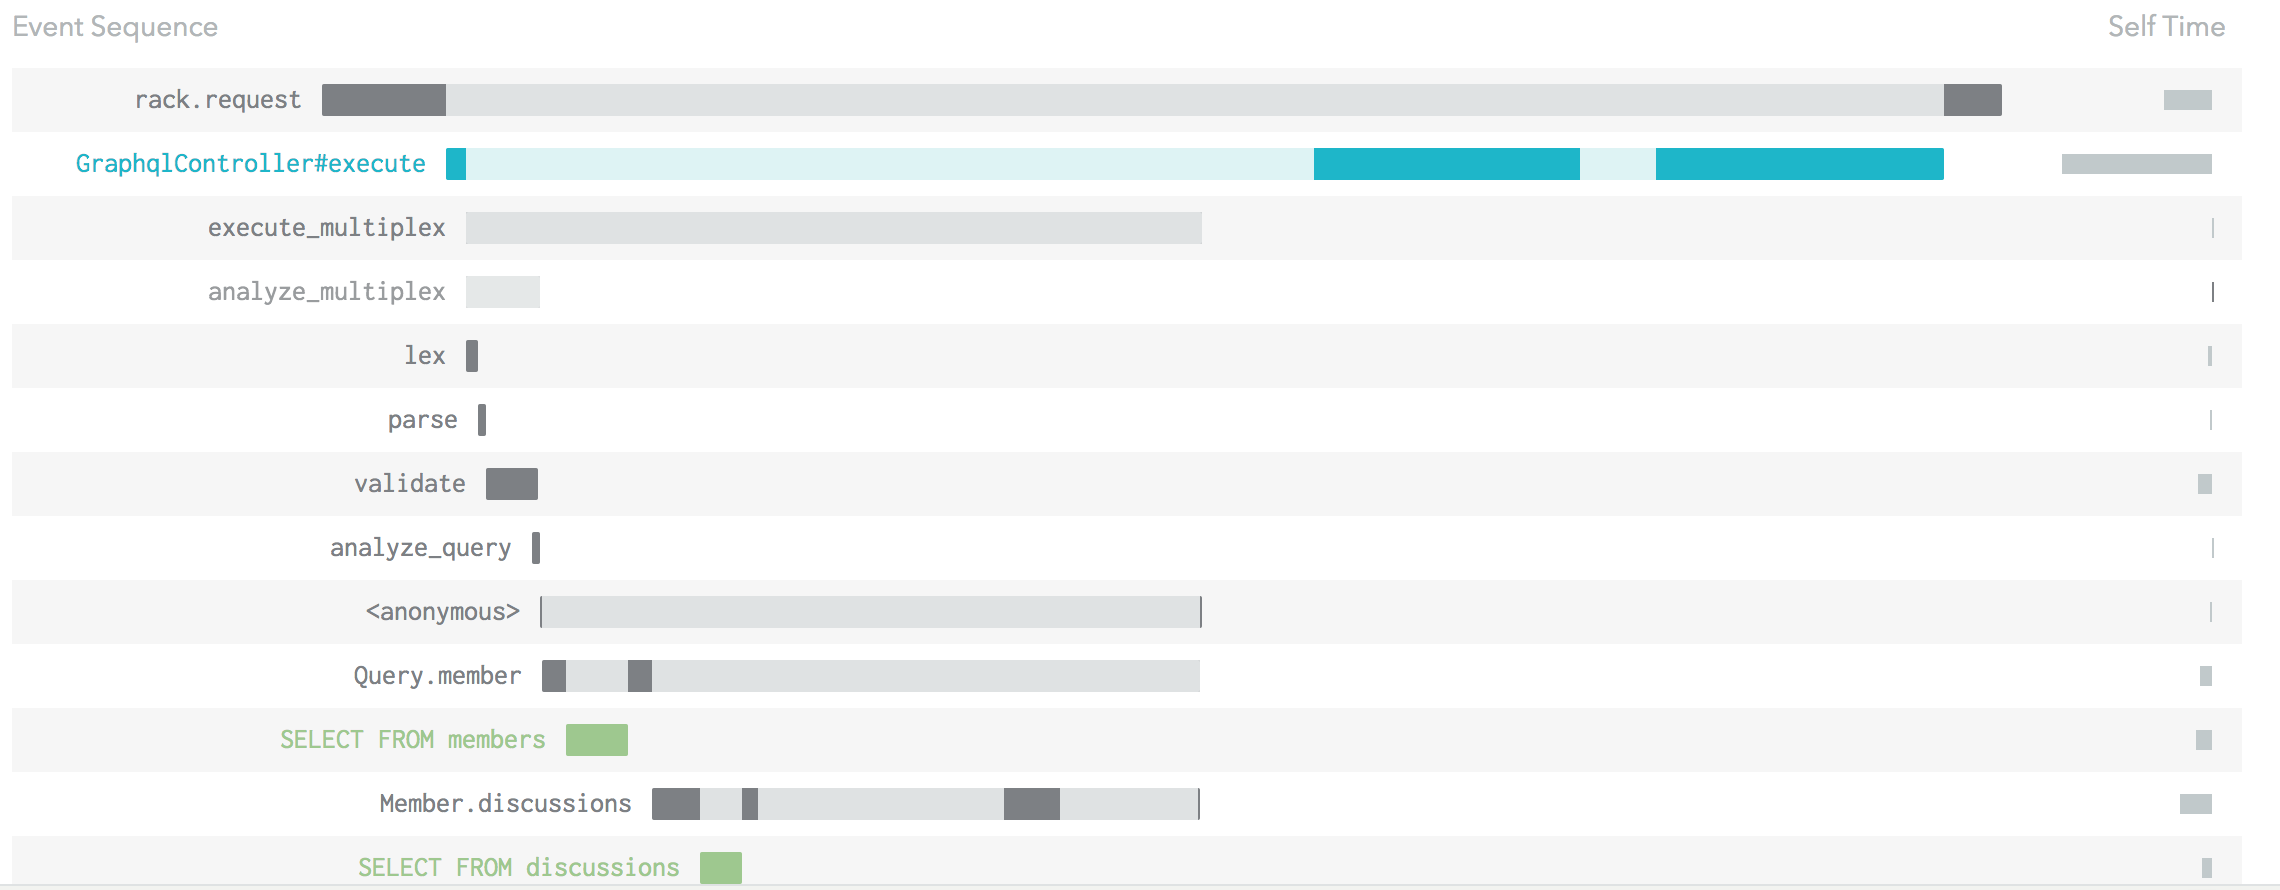
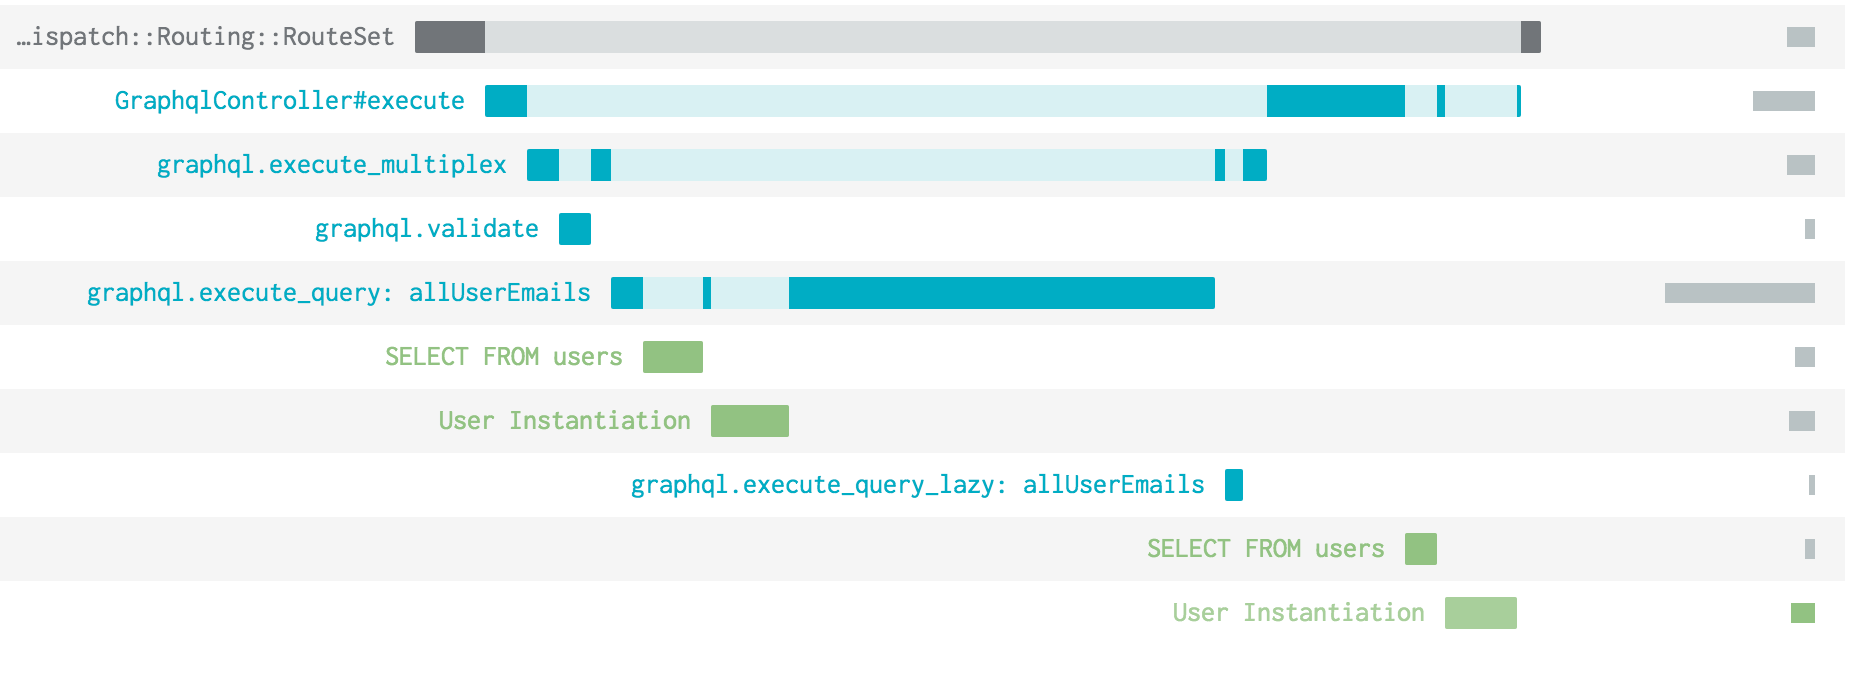
Update guides with Skylight GraphQL probe
Skylight now offers support for GraphQL in v.4.2.0. This commit updates
the guides to reference the new documentation on Skylight, as well an
example of how to use the GraphQL probe and a screenshot of its results.

diff --git a/guides/queries/tracing.md b/guides/queries/tracing.md
@@ -113,18 +113,18 @@ end
 
 ## Skylight
 
-To add [Skylight](https://www.skylight.io) instrumentation:
+To add [Skylight](https://www.skylight.io) instrumentation, you may either enable the [GraphQL probe](https://www.skylight.io/support/getting-more-from-skylight#graphql) or use [ActiveSupportNotificationsTracing](/queries/tracing.html#activesupportnotifications).
 
 ```ruby
-class MySchema < GraphQL::Schema
-  use(GraphQL::Tracing::SkylightTracing)
-end
+# config/application.rb
+config.skylight.probes << "graphql"
 ```
-
 
 <div class="monitoring-img-group">
   {{ "/queries/skylight_example.png" | link_to_img:"skylight monitoring" }}
 </div>
+
+GraphQL instrumentation for Skylight is available in versions >= 4.2.0.
 
 ## Datadog
 
